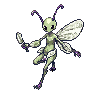
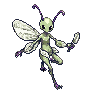
fix: 右向きに出た敵20体を左右反転（敵はプレイヤー側＝左を向く）
ユーザー「右を向いてる敵が多くない？プレイヤー側（左）を向くようにして」。84体のシートで向きを検算し、
右向きの20体を反転。.pixellab.json に postprocess を記録。検算の手順を pixellab-assets.md に追記。

Claude-Session: https://claude.ai/code/session_01KghSQSqnUjvD7w5d1ktinx

Changed region(s): [[0.125, 0.0312, 0.875, 0.9375]]

diff --git a/docs/pixellab-assets.md b/docs/pixellab-assets.md
@@ -258,7 +258,7 @@ attack / defend / buff / rally / heal / hex / destroy-set / destroy-token / stea
   - **語の教訓**: 「plush」は熊・兎、「spirit / goblin / sneaking / hugging」は人型の子ども、「mask」は人型の体を呼ぶ。頬の赤みは negative では消えず positive の「plain cheeks with no blush marks」でだけ減る。bitforge の style_image は形まで写す（55 で全員が果実、28 でも半分）ので参考画像は使わず言葉で揃える
   - **手順**: 各2シード（23/41）を scratchpad に出して良い方を `Art/enemies` へコピー、人型・熊兎に流れた札は種を差し替えて3シード（7/57/83）で作り直す。幕2/3は同じ2つの style で種の記述だけ書く
 - **リーダーの絵柄＝日本のかわいいデフォルメ（2026-09-11 ユーザー「日本のキャラデザのようなかわいいデフォルメ。今のは安い中国かアメリカのデザインっぽい」）**: 「日本らしく」は小道具（鉞・勾玉・和装）ではなく**絵柄**の話だった。絵柄8案（ディスガイア型／元気SD／FEHちび／日本一SD／オクトラ正統／ライブアライブ／絵本SDアニメ顔／HD-2Dセル顔）から **5「オクトラ正統」** を採用: `Japanese JRPG pixel art character sprite in the HD-2D style of Octopath Traveler and Live A Live, kawaii anime chara-design, 3 heads tall super-deformed proportions with a large round head and a slim small body, soft round anime face, big sparkling green anime eyes with two white highlights each, tiny dot nose, small closed smiling mouth, ... clean cel shading in three flat tone steps, thin dark selective outline, subdued Octopath palette` ＋ negative に `western cartoon, disney, pixar, cheap mobile game, chinese hanfu, wuxia, realistic proportions, small narrow eyes, muddy colors, watercolor bleeding, painterly`。**旧「水彩絵本」の style 文はリーダーには使わない**（敵は据え置き）。武器は「魔法機械感」8案 → キャラ＝結晶芯・武器＝結晶の欠片、を画素で合成（`unity/Assets/Resources/Art/leaders/leader_green.pixellab.json`）。発注書: `docs/pixellab/konoha-chibi-japanese-style.json`（絵柄8案）・`konoha-style5-magitech.json`・`konoha-style5-crystal-mix.json`。init_image でキャラを固定する手（強さ220）は武器が変わらず失敗。
-- **幕2/3の敵59体（2026-09-11 ユーザー「2,3幕の敵画像もpixellab作成して適用して」）**: 手順＝①`docs/pixellab/enemy-kinds.json` の系統（獣31/古機17/継ぎ物6/名残5）ごとに workflow で「種の記述」（何の生き物/機械として描くか＝`form_ja`。人型は動物・物・機械に置換）を書かせ ②`scripts/enemy-orders-act23.py` で系統別の発注書 `enemies-act23-{beast,machine,hybrid,revenant}.json`（各2シード 23/41）③`scripts/enemy-pairs-sheet.py` で敵ごとの A/B 比較画像 ④判定 workflow（画像を Read して「人型／形違い／画材違い／64pxで読めない」を不合格に）⑤`scripts/enemy-apply-act23.py` で合格を `Art/enemies/<id>.png` へ ⑥不合格は判定の fix_hint を種の記述にして3シード（7/57/83）で作り直し（`enemies-act23-redo-*.json`）。初回の合格 47/59。不合格の型＝**小さな哺乳類はネズミ・猫に流れる**（イモリ・モグラ・カメレオン・アルマジロが全部ネズミ/猫になった＝種名を大文字で先頭に置き、mouse/cat/fennec を negative へ）、**「壁から出た腕だけ」は蟹の全身になる**、**名残（顔なし・手足なし）はお化けの顔と手が生える**、走竜の雛は鶏の雛になる。継ぎ物の style は獣の style ＋「grafted tarnished metal parts」、名残は「faceless limbless wisp」の専用 style。**第2回（fix_hint で3シード）の答え合わせ**: 種が通ったのは従士=アルマジロ・合成獣二の相・砕き腕=壁穴の蟹・魔人=石板の中の影・幼体=尾つき・射手=カメレオン・走竜の仔。通らなかったのはイモリ・モグラ（3シードとも齧歯類）・走竜の母（兎）・名残2体（「顔なし・手足なし」でも頭巾のお化け）＝**この style で小さな両生類/食虫類/爬虫類の母/顔なしの霊は出ない**。名前が動物を指定しない敵（妖術師・コボルト）は小道具（泥玉・太鼓）を持つ小獣として採用し、名残は「頭巾の影」を許容した（次に描き直すなら名残の style を「lantern glow in fog, no shape」まで抽象化する）。
+- **幕2/3の敵59体（2026-09-11 ユーザー「2,3幕の敵画像もpixellab作成して適用して」）**: 手順＝①`docs/pixellab/enemy-kinds.json` の系統（獣31/古機17/継ぎ物6/名残5）ごとに workflow で「種の記述」（何の生き物/機械として描くか＝`form_ja`。人型は動物・物・機械に置換）を書かせ ②`scripts/enemy-orders-act23.py` で系統別の発注書 `enemies-act23-{beast,machine,hybrid,revenant}.json`（各2シード 23/41）③`scripts/enemy-pairs-sheet.py` で敵ごとの A/B 比較画像 ④判定 workflow（画像を Read して「人型／形違い／画材違い／64pxで読めない」を不合格に）⑤`scripts/enemy-apply-act23.py` で合格を `Art/enemies/<id>.png` へ ⑥不合格は判定の fix_hint を種の記述にして3シード（7/57/83）で作り直し（`enemies-act23-redo-*.json`）。初回の合格 47/59。不合格の型＝**小さな哺乳類はネズミ・猫に流れる**（イモリ・モグラ・カメレオン・アルマジロが全部ネズミ/猫になった＝種名を大文字で先頭に置き、mouse/cat/fennec を negative へ）、**「壁から出た腕だけ」は蟹の全身になる**、**名残（顔なし・手足なし）はお化けの顔と手が生える**、走竜の雛は鶏の雛になる。継ぎ物の style は獣の style ＋「grafted tarnished metal parts」、名残は「faceless limbless wisp」の専用 style。**第2回（fix_hint で3シード）の答え合わせ**: 種が通ったのは従士=アルマジロ・合成獣二の相・砕き腕=壁穴の蟹・魔人=石板の中の影・幼体=尾つき・射手=カメレオン・走竜の仔。通らなかったのはイモリ・モグラ（3シードとも齧歯類）・走竜の母（兎）・名残2体（「顔なし・手足なし」でも頭巾のお化け）＝**この style で小さな両生類/食虫類/爬虫類の母/顔なしの霊は出ない**。名前が動物を指定しない敵（妖術師・コボルト）は小道具（泥玉・太鼓）を持つ小獣として採用し、名残は「頭巾の影」を許容した（次に描き直すなら名残の style を「lantern glow in fog, no shape」まで抽象化する）。**向きの検算（2026-09-11 ユーザー「右を向いてる敵が多くない？」）**: 敵は右側に立つのでプレイヤー側＝**左**を向く。pixflux は `south-west` でも右向きに出ることがある（84体中20体）。採用時にシートで向きを見て、右向きは PNG を左右反転し `.pixellab.json` に `postprocess: flip_left_right` を記す。対称・正面向きはそのまま。
 - **舞台の小物と葉の塊（2026-09-08）**: `Art/props/act<N>_<name>.png`（fern/shroom/rock/log/root/stone/reed/leafclump1〜3）を置くと `Stage.PropTex` が仮絵の代わりに使う。透明が 45% 未満の絵（風景ごと描かれた絵）は自動で捨てる。プロンプトは「isolated pixel art game sprite of a single object, centered, nothing else, completely empty transparent background, no scenery」＋ negative に scene/background/landscape/forest/sky/ground。葉の塊は「foliage only (no trunk)」でも幹が出るので、下の幹の行を切り落とす（幅が最大の45%未満の下端）。地面タイルは 64 で生成して継ぎ目の良い 32 窓を切る。発注書 `docs/pixellab/stage-act1-forest.json`。
 - **色**: 紙の UI（#f4ecd6）の上に貼り絵の縁が付くので、輪郭の外側に発光やぼかしを描かない。パレットは 16〜32 色に収める。
 - **アイコン**: 墨1色の線＋役割の色1つ（攻撃=薔薇 #d97b7b・ブロック=空 #7fa7c9・成長=苔 #8fae7b・勢い=蜂蜜 #e0b25a・呪文=藤 #a98cc4・リアクション=青緑 #7ab8b0）。背景透過。
